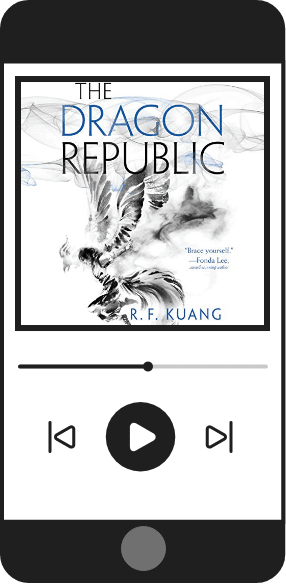
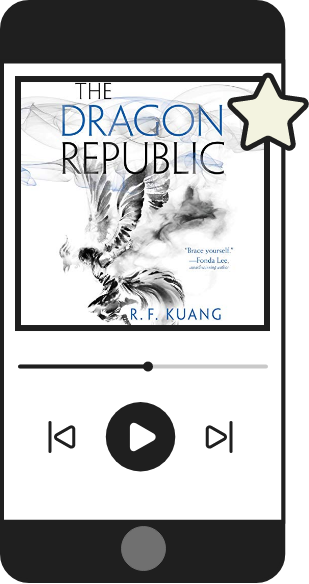
Update poppy war series

diff --git a/src/components/Books.vue b/src/components/Books.vue
@@ -3,7 +3,7 @@
     <div class="read-book-list">
       <div class="header">
         <h2>Books Read</h2>
-        <div class="toggle-button-wrapper">
+        <!-- <div class="toggle-button-wrapper">
           <input
             type="checkbox"
             v-model="toggle"
@@ -12,10 +12,10 @@
             id="toggle-text-books"
           />
           <label for="toggle-text-books">Show Books with Text</label>
-        </div>
+        </div> -->
       </div>
 
-      <ul class="books" v-show="toggle === 'no'">
+      <ul class="books">
         <li
           class="book"
           v-for="(book, index) in filter('progress', 'finished')"
@@ -30,6 +30,12 @@
             :alt="`${book.title} book cover`"
             :src="require(`@/assets/imgs/${slug(book.title)}.png`)"
           />
+          <div class="text-book-info">
+            <p>
+              {{ book.title }} by
+              {{ book.author.join(", ") }}
+            </p>
+          </div>
           <div
             class="stars"
             :style="`--rating: ${book.rating};`"
@@ -38,7 +44,7 @@
           <p class="read-date">{{ book.dateFinished }}</p>
         </li>
       </ul>
-      <ul class="books text-books" v-show="toggle === 'yes'">
+      <!-- <ul class="books text-books" v-show="toggle === 'yes'">
         <li
           class="book"
           v-for="(book, index) in filter('progress', 'finished')"
@@ -70,7 +76,7 @@
             <p class="read-date">{{ book.dateFinished }}</p>
           </div>
         </li>
-      </ul>
+      </ul> -->
     </div>
     <div class="current-book-list">
       <h2>Started Reading</h2>
@@ -208,7 +214,7 @@ export default {
   list-style: none;
   display: flex;
   flex-wrap: wrap;
-  align-items: center;
+  align-items: flex-start;
   justify-content: center;
   margin-top: 40px;
   .read-book-list {
@@ -445,24 +451,24 @@ export default {
     }
   }
 
-  .book:nth-child(2n + 1) {
-    transform: rotate(-2deg);
-  }
+  // .book:nth-child(2n + 1) .book-cover-img {
+  //   transform: rotate(-2deg);
+  // }
 
-  .book:nth-child(3n + 2) {
-    transform: rotate(2deg);
-  }
-  .book:nth-child(5n + 3) {
-    transform: rotate(-4deg);
-  }
+  // .book:nth-child(3n + 2) .book-cover-img {
+  //   transform: rotate(2deg);
+  // }
+  // .book:nth-child(5n + 3) .book-cover-img {
+  //   transform: rotate(-4deg);
+  // }
 
-  .book:nth-child(7n + 5) {
-    transform: rotate(-6deg);
-  }
+  // .book:nth-child(7n + 5) .book-cover-img {
+  //   transform: rotate(-6deg);
+  // }
 
-  .book:nth-child(11n + 7) {
-    transform: rotate(4deg);
-  }
+  // .book:nth-child(11n + 7) .book-cover-img {
+  //   transform: rotate(4deg);
+  // }
 
   .text-books {
     margin-top: 30px;

diff --git a/src/data/books.ts b/src/data/books.ts
@@ -978,7 +978,7 @@ export const bookData: Book[] = [
     dateFinished: "08/01/2022",
     dnfDate: "",
     progress: "finished",
-    fav: false,
+    fav: true,
     pageProgress: 100
   },
   {
@@ -997,7 +997,7 @@ export const bookData: Book[] = [
     dateFinished: "08/04/2022",
     dnfDate: "",
     progress: "finished",
-    fav: false,
+    fav: true,
     pageProgress: 100
   },
   {
